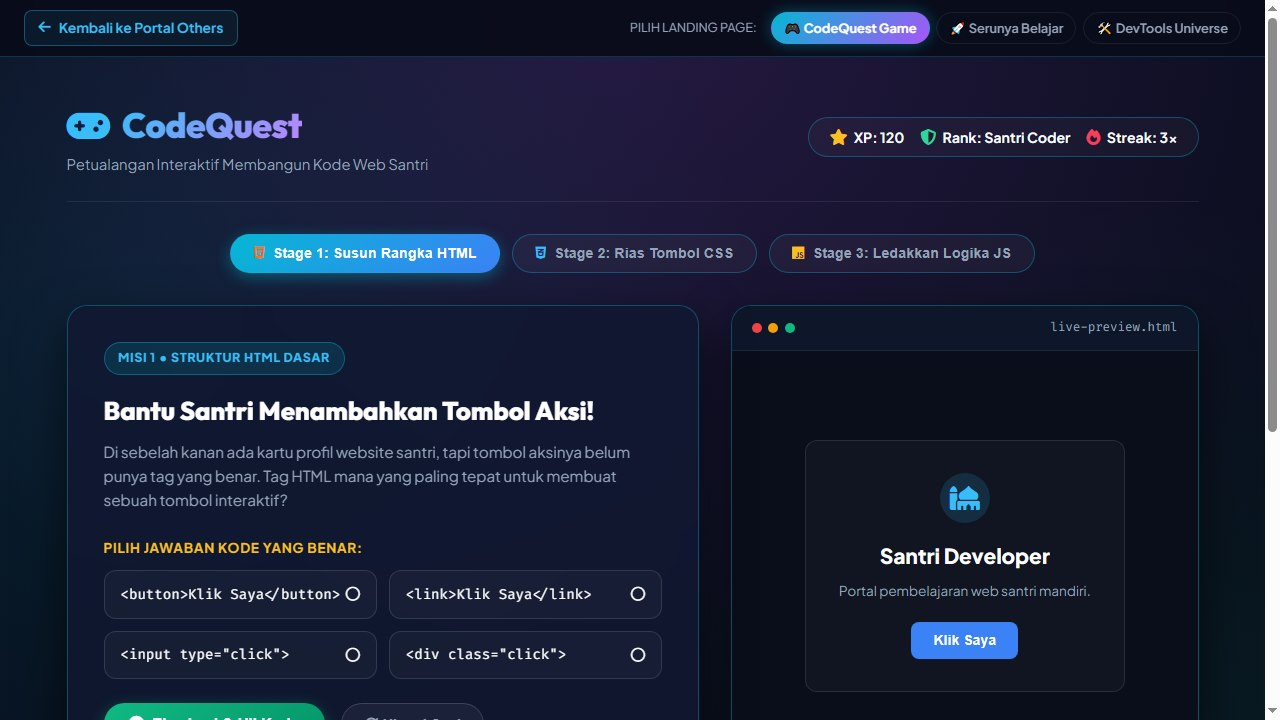
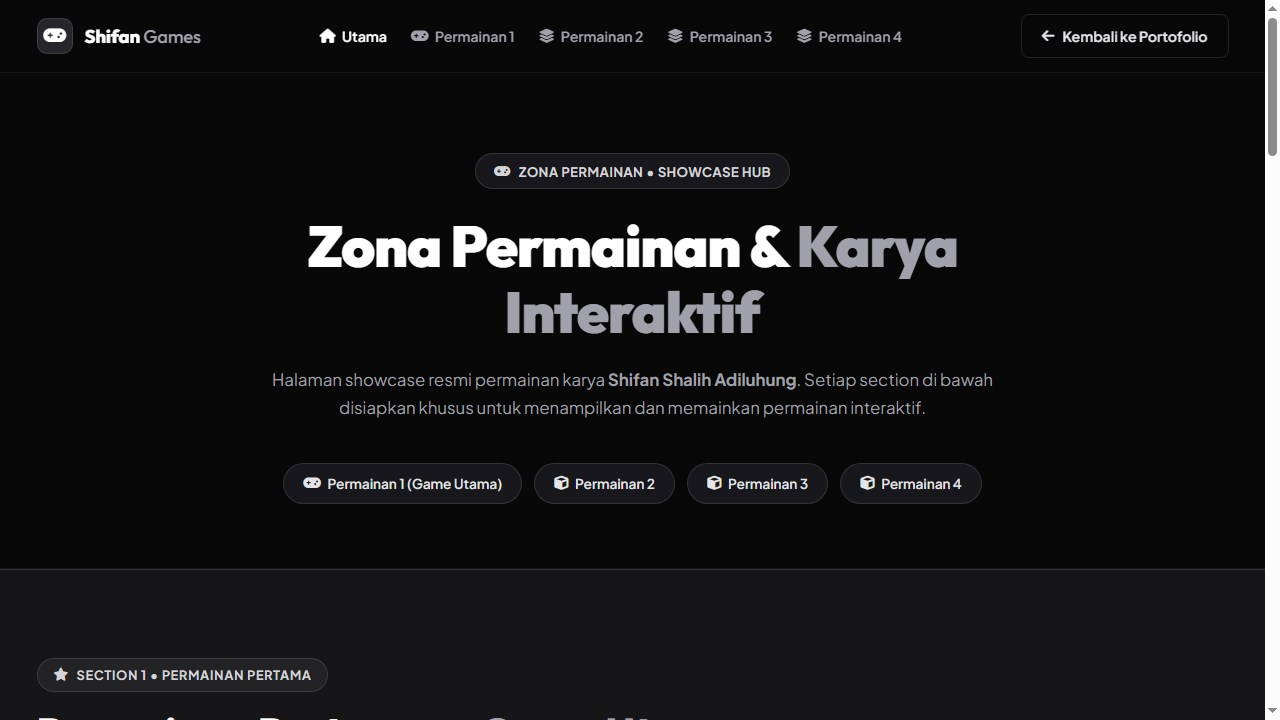
fix(preview): selaraskan gambar projek permainan dengan screenshot asli games.html 1280x720 bertema monokrom

diff --git a/index.html b/index.html
@@ -27,7 +27,7 @@
     <link rel="stylesheet" href="https://cdnjs.cloudflare.com/ajax/libs/font-awesome/6.4.0/css/all.min.css">
     
     <!-- Stylesheets -->
-    <link rel="stylesheet" href="styles.css?v=24.0">
+    <link rel="stylesheet" href="styles.css?v=25.0">
 </head>
 <body class="dark-theme">
     <script src="theme-init.js?v=1.0"></script>
@@ -358,9 +358,9 @@
                             </a>
                         </div>
                     </div>
-                    <div class="project-card glass-card project-card-clickable" data-category="web-projects" data-href="games.html" title="Buka Zona Permainan Interaktif (Game Hub)">
+                    <div class="project-card glass-card project-card-clickable" data-category="web-projects" data-href="games.html" title="Buka Zona Permainan Interaktif (Showcase Hub)">
                         <div class="project-thumb">
-                            <img src="assets/images/games_preview.jpg?v=1.0" class="project-thumb-img" alt="Preview Zona Permainan Shifan" loading="lazy">
+                            <img src="assets/images/games_preview.jpg?v=2.0" class="project-thumb-img" alt="Preview Zona Permainan Shifan" loading="lazy">
                             <div class="project-thumb-overlay"></div>
                             <div class="badge-live-site" style="background: #27272a; border-color: rgba(255, 255, 255, 0.25); color: #ffffff;"><span class="badge-live-dot" style="background: #ffffff;"></span> Game Hub</div>
                             <span class="project-category" style="color: #d4d4d8; border-color: rgba(255, 255, 255, 0.2);">Game Project</span>
@@ -929,6 +929,6 @@
 
     <!-- Scripts -->
     <script src="asisfan-client.js?v=1.2"></script>
-    <script src="script.js?v=32.0"></script>
+    <script src="script.js?v=33.0"></script>
 </body>
 </html>

diff --git a/script.js b/script.js
@@ -748,7 +748,7 @@ document.addEventListener('DOMContentLoaded', () => {
                     return `
                         <div class="project-card glass-card project-card-clickable" data-category="${esc(p.category)}" data-href="games.html" title="Buka Zona Permainan Interaktif (Showcase Hub)">
                             <div class="project-thumb">
-                                <img src="assets/images/games_preview.jpg?v=1.0" class="project-thumb-img" alt="Preview Zona Permainan Shifan" loading="lazy">
+                                <img src="assets/images/games_preview.jpg?v=2.0" class="project-thumb-img" alt="Preview Zona Permainan Shifan" loading="lazy">
                                 <div class="project-thumb-overlay"></div>
                                 <div class="badge-live-site" style="background: #27272a; border-color: rgba(255, 255, 255, 0.25); color: #ffffff;"><span class="badge-live-dot" style="background: #ffffff;"></span> Game Hub</div>
                                 <span class="project-category" style="color: #d4d4d8; border-color: rgba(255, 255, 255, 0.2);">Game Project</span>
